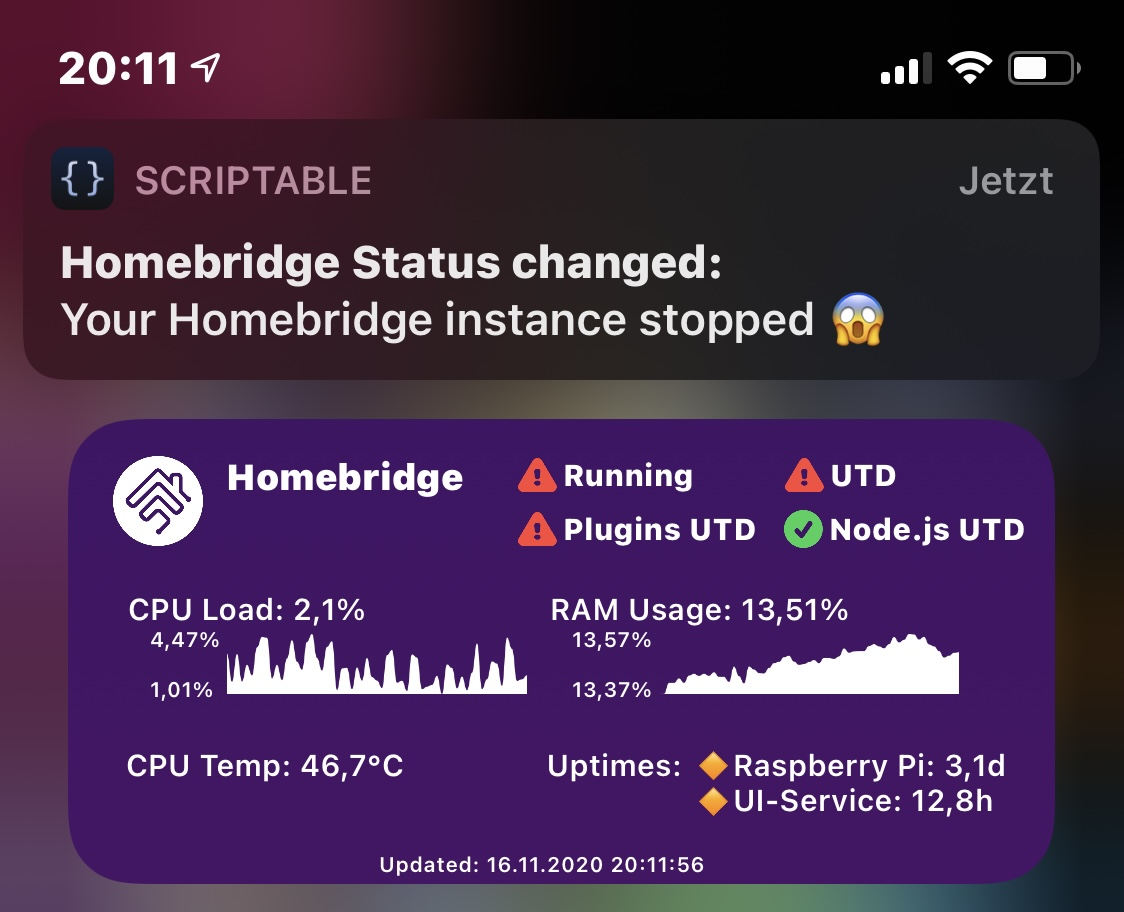
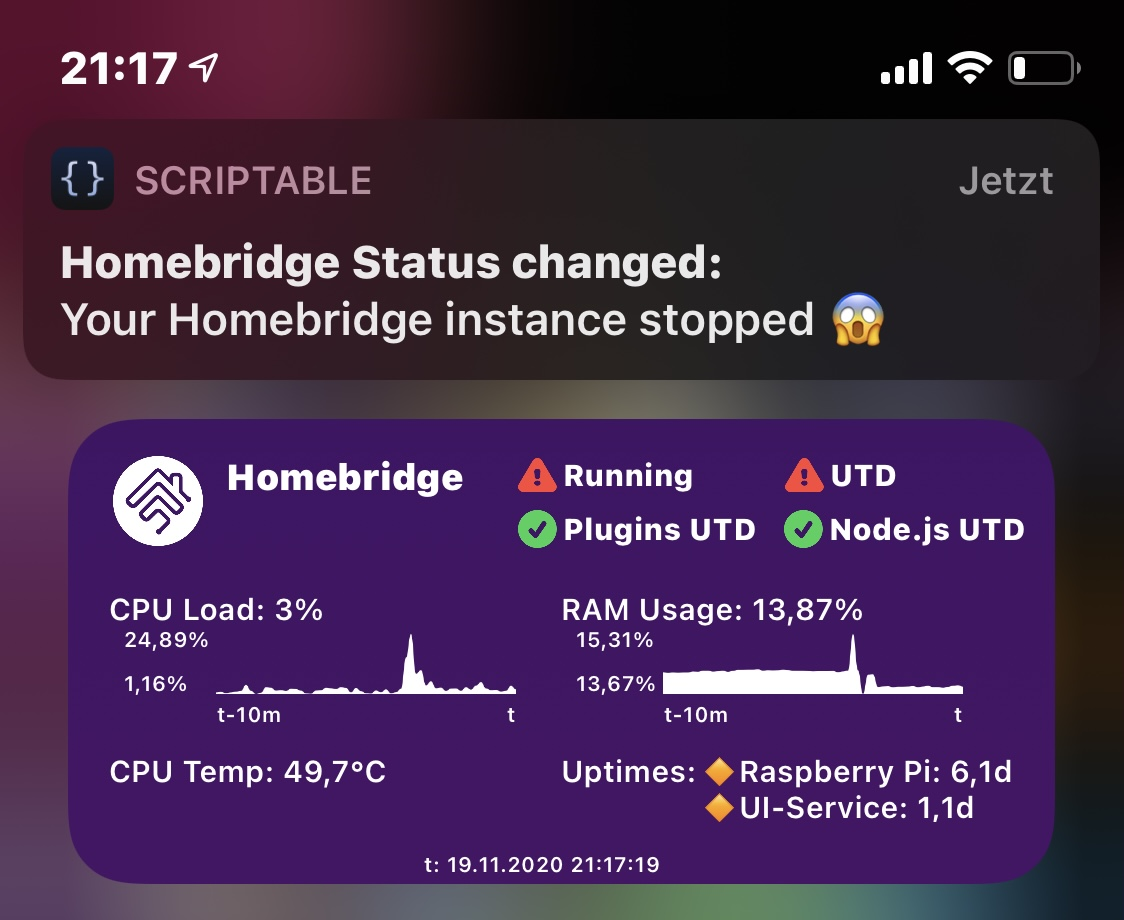
- tried my best to make this as stylable as possible - support for dark and light versions of purple and black - everything that is in the configuration class is saved and will be the same even after the script will be updated - you can now set chart color, font color, set own background colors

diff --git a/homebridgeStatusWidget.js b/homebridgeStatusWidget.js
@@ -24,12 +24,21 @@ class Configuration {
     temperatureUnitConfig = 'CELSIUS'; // options are CELSIUS or FAHRENHEIT
     requestTimeoutInterval = 2; // in seconds; If requests take longer, the script is stopped. Increase it if it doesn't work or you
     pluginsOrSwUpdatesToIgnore = []; // a string array; enter the exact npm-plugin-names e.g. 'homebridge-fritz' or additionally 'HOMEBRIDGE_UTD' or 'NODEJS_UTD' if you do not want to have them checked for their latest versions
-    bgColorMode = 'PURPLE'; // default is PURPLE. Other options: BLACK or BLUE_TO_RED
-
+    adaptToLightOrDarkMode = true; // if one of the purple or black options is chosen, the widget will adapt to dark/light mode if true
+    bgColorMode = 'PURPLE_LIGHT'; // default is PURPLE_LIGHT. Other options: PURPLE_DARK, BLACK_LIGHT, BLACK_DARK, CUSTOM (custom colors will be used, see below)
+    customBackgroundColor1 = '#3e00fa'; // if bgColorMode CUSTOM is used a LinearGradient is created from customBackgroundColor1 and customBackgroundColor2
+    customBackgroundColor2 = '#7a04d4'; // you can use your own colors here; they are saved in the configuration
+    chartColor = '#FFFFFF';
+    fontColor = '#FFFFFF';
     failIcon = '❌';
     bulletPointIcon = '🔸';
     decimalChar = ','; // if you like a dot as decimal separator make the comma to a dot here
     jsonVersion = CONFIGURATION_JSON_VERSION; // do not change this
+    enableSiriFeedback = false; // this does nothing atm, but maybe i use this in the future
+    defaultLocaleToUseForSiri = 'de'; // this does nothing atm, but maybe i use this in the future
+
+// logo is downloaded only the first time! It is saved in iCloud and then loaded from there everytime afterwards
+    logoUrl = 'https://github.com/homebridge/branding/blob/master/logos/homebridge-silhouette-round-white.png?raw=true';
 }
 
 // CONFIGURATION END //////////////////////
@@ -43,8 +52,6 @@ const uptimeUrl = () => CONFIGURATION.hbServiceMachineBaseUrl + '/api/status/upt
 const pluginsUrl = () => CONFIGURATION.hbServiceMachineBaseUrl + '/api/plugins';
 const hbVersionUrl = () => CONFIGURATION.hbServiceMachineBaseUrl + '/api/status/homebridge-version';
 const nodeJsUrl = () => CONFIGURATION.hbServiceMachineBaseUrl + '/api/status/nodejs';
-// logo is downloaded only the first time! It is saved in iCloud and then loaded from there everytime afterwards
-const logoUrl = 'https://github.com/homebridge/branding/blob/master/logos/homebridge-silhouette-round-white.png?raw=true';
 
 
 const maxLineWidth = 310; // if layout doesn't look good for you,
@@ -55,20 +62,12 @@ const headerFont = Font.boldMonospacedSystemFont(12);
 const infoFont = Font.systemFont(10);
 const chartAxisFont = Font.systemFont(7);
 const updatedAtFont = Font.systemFont(7);
-const fontColorWhite = new Color('FFFFFF');
-const bgColorPurple = new Color('#421367');
-const bgColorBrighterPurple = new Color('#481367');
-const purpleBgGradient = new LinearGradient();
-purpleBgGradient.locations = [0, 1];
-purpleBgGradient.colors = [bgColorPurple, bgColorBrighterPurple];
-const blackBgGradient = new LinearGradient();
-blackBgGradient.locations = [0, 1];
-blackBgGradient.colors = [new Color('111111'), new Color('222222')];
-const blueToRedBgGradient = new LinearGradient();
-blueToRedBgGradient.locations = [0, 1];
-blueToRedBgGradient.colors = [new Color('3e00fa'), new Color('7a04d4')];
 
-const chartColor = new Color('#FFFFFF');
+const purpleBgGradient_light = createLinearGradient('#421367', '#481367');
+const purpleBgGradient_dark = createLinearGradient('#250b3b', '#320d47');
+const blackBgGradient_light = createLinearGradient('#707070', '#3d3d3d');
+const blackBgGradient_dark = createLinearGradient('#111111', '#222222');
+
 const UNAVAILABLE = 'UNAVAILABLE';
 
 const NOTIFICATION_JSON_VERSION = 1; // never change this!
@@ -77,22 +76,10 @@ const HB_LOGO_FILE_NAME = 'hbLogo.png'; // never change this!
 
 const INITIAL_NOTIFICATION_STATE = {
     'jsonVersion': NOTIFICATION_JSON_VERSION,
-    'hbRunning': {
-        'status': true,
-        'lastNotified': undefined
-    },
-    'hbUtd': {
-        'status': true,
-        'lastNotified': undefined
-    },
-    'pluginsUtd': {
-        'status': true,
-        'lastNotified': undefined
-    },
-    'nodeUtd': {
-        'status': true,
-        'lastNotified': undefined
-    }
+    'hbRunning': {'status': true},
+    'hbUtd': {'status': true},
+    'pluginsUtd': {'status': true},
+    'nodeUtd': {'status': true}
 };
 
 class LineChart {
@@ -157,6 +144,7 @@ if (!config.runsInWidget) {
 
 Script.setWidget(widget);
 Script.complete();
+
 // WIDGET INIT END //////////////////
 
 
@@ -174,7 +162,7 @@ async function createWidget() {
 //      a valid real example: admin,,mypassword123,,http://192.168.178.33:8581
 //      If no password is needed for you to login just enter anything: xyz,,xyz,,http://192.168.178.33:8581
         if (args.widgetParameter.length > 0) {
-            let foundCredentialsInParameter = checkifCredentialsParameterAreProvided(args.widgetParameter);
+            let foundCredentialsInParameter = useCredentialsFromWidgetParameter(args.widgetParameter);
             let fileNameSuccessfullySet = false;
             if (!foundCredentialsInParameter) {
                 fileNameSuccessfullySet = checkIfConfigFileParameterIsProvided(fm, args.widgetParameter);
@@ -196,13 +184,8 @@ async function createWidget() {
         throw('Credentials not valid');
     }
     let widget = new ListWidget();
-    if (CONFIGURATION.bgColorMode === 'BLACK') {
-        widget.backgroundGradient = blackBgGradient;
-    } else if (CONFIGURATION.bgColorMode === 'BLUE_TO_RED') {
-        widget.backgroundGradient = blueToRedBgGradient;
-    } else {
-        widget.backgroundGradient = purpleBgGradient;
-    }
+
+    handleSettingOfBackgroundColor(widget);
 
     if (token !== UNAVAILABLE) {
         widget.addSpacer(10);
@@ -241,7 +224,6 @@ async function createWidget() {
         persistObject(fm, CONFIGURATION, pathToConfig);
     }
 
-
     // STATUS PANEL IN THE HEADER ///////////////////
     let statusInfo = titleStack.addStack();
     statusInfo.layoutVertically();
@@ -277,7 +259,7 @@ async function createWidget() {
         if (temperatureString !== 'unknown') {
             let cpuTempText = addStyledText(firstColumn, 'CPU Temp: ' + temperatureString, infoFont);
             cpuTempText.size = new Size(150, 30);
-            cpuTempText.textColor = fontColorWhite;
+            cpuTempText.textColor = new Color(CONFIGURATION.fontColor);
         }
         // FIRST COLUMN END //////////////////////
 
@@ -317,17 +299,68 @@ async function createWidget() {
     }
 }
 
+function handleSettingOfBackgroundColor(widget) {
+    if (!CONFIGURATION.adaptToLightOrDarkMode) {
+        switch (CONFIGURATION.bgColorMode) {
+            case "CUSTOM":
+                widget.backgroundGradient = createLinearGradient(CONFIGURATION.customBackgroundColor1, CONFIGURATION.customBackgroundColor2);
+                break;
+            case "BLACK_LIGHT":
+                widget.backgroundGradient = blackBgGradient_light;
+                break;
+            case "BLACK_DARK":
+                widget.backgroundGradient = blackBgGradient_dark;
+                break;
+            case "PURPLE_DARK":
+                widget.backgroundGradient = purpleBgGradient_dark;
+                break;
+            case "PURPLE_LIGHT":
+            default:
+                widget.backgroundGradient = purpleBgGradient_light;
+        }
+    } else {
+        switch (CONFIGURATION.bgColorMode) {
+            case "CUSTOM":
+                widget.backgroundGradient = createLinearGradient(CONFIGURATION.customBackgroundColor1, CONFIGURATION.customBackgroundColor2);
+                break;
+            case "BLACK_LIGHT":
+            case "BLACK_DARK":
+                determinGradient(widget, blackBgGradient_light, blackBgGradient_dark);
+                break;
+            case "PURPLE_DARK":
+            case "PURPLE_LIGHT":
+            default:
+                determinGradient(widget, purpleBgGradient_light, purpleBgGradient_dark);
+        }
+    }
+}
+
+function determinGradient(widget, lightOption, darkOption) {
+    if (Device.isUsingDarkAppearance()) {
+        widget.backgroundGradient = darkOption;
+    } else {
+        widget.backgroundGradient = lightOption;
+    }
+}
+
+function createLinearGradient(color1, color2) {
+    const gradient = new LinearGradient();
+    gradient.locations = [0, 1];
+    gradient.colors = [new Color(color1), new Color(color2)];
+    return gradient;
+}
+
 function addStyledText(stackToAddTo, text, font) {
     let textHandle = stackToAddTo.addText(text);
     textHandle.font = font;
-    textHandle.textColor = fontColorWhite;
+    textHandle.textColor = new Color(CONFIGURATION.fontColor);
     return textHandle;
 }
 
 function addTitleAboveChartToWidget(column, titleText) {
     let cpuLoadTitle = column.addText(titleText);
     cpuLoadTitle.font = infoFont;
-    cpuLoadTitle.textColor = fontColorWhite;
+    cpuLoadTitle.textColor = new Color(CONFIGURATION.fontColor);
 }
 
 function addChartToWidget(column, chartData) {
@@ -345,7 +378,7 @@ function addChartToWidget(column, chartData) {
 
     let chartImage = new LineChart(500, 100, chartData).configure((ctx, path) => {
         ctx.opaque = false;
-        ctx.setFillColor(chartColor);
+        ctx.setFillColor(new Color(CONFIGURATION.chartColor));
         ctx.addPath(path);
         ctx.fillPath(path);
     }).getImage();
@@ -377,7 +410,7 @@ function checkIfConfigFileParameterIsProvided(fm, givenParameter) {
     return false;
 }
 
-function checkifCredentialsParameterAreProvided(givenParameter) {
+function useCredentialsFromWidgetParameter(givenParameter) {
     if (givenParameter.includes(',,')) {
         let credentials = givenParameter.split(',,');
         if (credentials.length === 3 && credentials[0].length > 0 && credentials[1].length > 0 &&
@@ -535,7 +568,7 @@ async function getHbLogo(fm) {
         return fm.readImage(path);
     } else {
         // logo did not exist -> download it and save it for next time the widget runs
-        const logo = await loadImage(logoUrl);
+        const logo = await loadImage(CONFIGURATION.logoUrl);
         fm.writeImage(path, logo);
         return logo;
     }
@@ -551,18 +584,18 @@ function getFilePath(fileName, fm) {
 
 function addNotAvailableInfos(widget, titleStack) {
     let statusInfo = titleStack.addText('                                                 ');
-    statusInfo.textColor = fontColorWhite;
+    statusInfo.textColor = new Color(CONFIGURATION.fontColor);
     statusInfo.size = new Size(150, normalLineHeight);
     let errorText = widget.addText('   ' + CONFIGURATION.failIcon + ' UI-Service not reachable!\n          👉🏻 Server started?\n          👉🏻 UI-Service process started?\n          👉🏻 Server-URL ' + CONFIGURATION.hbServiceMachineBaseUrl + ' correct?\n          👉🏻 Are you in the same network?');
     errorText.size = new Size(410, 130);
     errorText.font = infoFont;
-    errorText.textColor = fontColorWhite;
+    errorText.textColor = new Color(CONFIGURATION.fontColor);
 
 
     widget.addSpacer(15);
     let updatedAt = widget.addText('Updated: ' + timeFormatter.string(new Date()));
     updatedAt.font = updatedAtFont;
-    updatedAt.textColor = fontColorWhite;
+    updatedAt.textColor = new Color(CONFIGURATION.fontColor);
     updatedAt.centerAlignText();
 
     return widget;
@@ -626,7 +659,7 @@ function addStatusInfo(lineWidget, statusBool, shownText) {
     itemStack.addSpacer(2);
     let text = itemStack.addText(shownText);
     text.font = Font.semiboldMonospacedSystemFont(10);
-    text.textColor = fontColorWhite;
+    text.textColor = new Color(CONFIGURATION.fontColor);
 }
 
 function handleNotifications(fm, hbRunning, hbUtd, pluginsUtd, nodeUtd) {

diff --git a/README.md b/README.md
@@ -1,4 +1,4 @@
-![](images/widget_purple.jpg)
+![](images/widget_purple_light.jpg)
 
 # Homebridge Status Widget
 - Script for the iOS App Scriptable that shows a small summary of your Homebridge instance
@@ -8,17 +8,35 @@
 - This script was developed with Homebridge Config UI X in version 4.32.0 (2020-11-06), Homebridge at version 1.1.6 and Scriptable app in version 1.6.1 on iOS 14.2. Maybe you need to update the UI-service OR Homebridge OR the Scriptable app OR your iPhone if this script does not work for you
 - also thanks to github user kevinkub for providing a line chart example at https://gist.github.com/kevinkub/b74f9c16f050576ae760a7730c19b8e2
 
-# How to use
-- updatable way supporting the install script from https://scriptdu.de (very recommended):
+# How to use (3 setup possibilities)
+- the best way (updatable, supporting the install script from https://scriptdu.de (very recommended)):
+  - the script has a configuration mechanism that saves all configurations (in the Configuration class) to iCloud persistently
+  - this means the configuration you make can be reused once you install a newer version of this script
+  - following variables exist in the configuration: ![](images/config.png)
+  - three variables controll this mechanism:
+     - configurationFileName = 'purple.json' // change this to an own name e.g. 'configBlack.json' . This name can then be given as a widget parameter in the form 'USE_CONFIG:yourfilename.json' so you don't loose your preferred configuration across script updates (but you will loose it if i have to change the configuration format)
+     - usePersistedConfiguration = true; // false would mean to use the visible configuration below; true means the state saved in iCloud (or locally) will be used
+     - overwritePersistedConfig = false; // if you like your configuration, run the script ONCE with this param to true, then it is saved and can be used via 'USE_CONFIG:yourfilename.json' in widget params
+  - so basically what you need to do is:
+     - choose a configurationFileName (must end with '.json')
+     - set overwritePersistedConfig to true
+     - configure every configuration-variable exactly as you want
+     - run the script once (this creates a json file in icloud, you can always delete it to start from scratch)
+     - set overwritePersistedConfig to false
+     - set the widget up with a single parameter in the format 'USE_CONFIG:yourfilename.json' ![](images/use_config_via_parameter.jpeg)
+  - as long as overwritePersistedConfig is false, any change to the config won't take any effect because the persisted one is used if usePersistedConfiguration is true
+- another updatable way:
    - set the widget up with parameter in the format \<username>,,\<password>,,\<hbServiceMachineBaseUrl>
    - a valid real example: "admin,,mypassword123,,http://192.168.178.33:8581"
+   - if you have authentication set to non in UI-X then just provide any char. Valid would be e.g. "x,,x,,http://192.168.178.33:8581"
+   - maybe you need to set usePersistedConfiguration in the config to false to use this older way
    - screenshot of an example when setting it up: ![](images/example_parameter_setup.jpeg)
-   
-- hard coded way: you need to configure 
+
+- hard coded way in the script (not recommended): you need to configure 
    - the **URL** of the system running the Homebridge Config UI X (the hb-service), including the port e.g. http://192.168.178.33:8581
    - **username** of the administrator of the homebridge-config-ui-x instance (not the actual linux user)
    - **password** of the administrator of the homebridge-config-ui-x instance
-- the residual parameter can be tweaked a bit for your needs
+   - the residual parameter can be tweaked a bit for your needs
    - e.g. fileManagerMode, must be set to LOCAL if you do not use iCloud Drive. Default is ICLOUD
    - e.g. the systemGuiName, the name of your system running the Homebridge Config UI X (the hb-service)
    - e.g. the timeout could be increased if your system does not respond within 2 second
@@ -40,12 +58,11 @@
   - 0.5 means you get each possible notification to a maximum of 2 times per day
 - Open a notification to reveal the "Show me!" button which takes you directly to Homebridge Config UI X
 - Here are some screenshots: 
-![](images/notification_plugin_update.jpeg)
-![](images/notification_homebridge_update.jpeg)
 ![](images/notification_homebridge_stopped.jpg)
-![](images/notification_homebridge_stopped_extended.jpg)
+![](images/notification_homebridge_update.jpg)
+![](images/notification_homebridge_update_extended.jpg)
 
-# Ignoring specific plugins or software
+# Ignoring specific plugin or software updates
 - by filling the empty array of the variable pluginsOrSwUpdatesToIgnore with strings, you can now configure to ignore plugins, Homebridge or Node.js during checking for updates
 - succesfully ignored software will not influence the shown status (e.g. ignoring homebridge UTD status will result in showing the green status always even if there is an update available)
   - for ignoring plugins, enter their npm name (e.g. 'homebridge-fritz') as string in the given empty array 
@@ -55,10 +72,18 @@
 
 
 # Styling
-- at the top of the script there is a variable bgColorMode that you can set to 'BLACK' or 'BLUE_TO_RED' to use other variants which look as the following:
-![](images/widget_black.jpg)
-![](images/notAvailable_black.jpg)
-![](images/widget_blue_to_red.jpg)
+- at the top of the script there is a variable bgColorMode that you can set to 'PURPLE_LIGHT', 'PURPLE_DARK', 'BLACK_LIGHT', BLACK_DARK', or 'CUSTOM'
+![](images/widget_purple_light.jpg)
+![](images/widget_purple_dark.jpg)
+![](images/widget_black_light.jpg)
+![](images/widget_black_dark.jpg)
+- in CUSTOM mode the values defined in customBackgroundColor1 and customBackgroundColor2 are used (you can choose!) 
+![](images/widget_custom_blue.jpg)
+![](images/widget_custom_blue_green_charts.jpg)
+- adaptToLightOrDarkMode toggles to react to light/dark mode automatically (only supports the purple and black modes)
+- fontColor sets all texts to your chosen color
+- chartColor controls which color the carts have
+- you even can experiment with logoUrl and choose another logo to download from anywhere
 - you can also change the icons failIcon = ❌ and bulletPointIcon = 🔸 by providing any other emoji
 
 # Infos shown in the widget
@@ -82,3 +107,4 @@
   - Homebridge 1.1.6
   - iOS 14.2
 - if your Homebridge Config UI X is reachable and the authentication process succeeded but the further API requests take to long or fail you will get a screen similar to ![](images/unknown.jpg)
+- open a github issue if you can't figure it out what the problem is

diff --git a/CHANGELOG.md b/CHANGELOG.md
@@ -1,5 +1,17 @@
 I try to list the changes i make in this changelog:
 
+#19.11.2020 22:26
+- hope you can figure out how to use the configuration :) :
+- added support for persisting and loading configurations -> now you can configure everything once as you like, create a configuration.json file, save it in e.g. iCloud and from there you can easily use this file via a widget parameter and don't have to think about reconfiguring everything after updating the script itself
+- the new parameter must have the form USE_CONFIG:yourfilename.json (so it starts with USE_CONFIG: and ends with .json. The middle part can be chosen by you)
+- tried my best to make this as stylable as possible
+- support for dark and light versions of purple and black (can be set automatically)
+- you can now set chart color, font color, set own background colors and more
+- added x axis label for charts
+- did a pretty large code refactoring without function changes
+- added support for Homebridge Config UI X Authentication Mode 'none' -> so if you chose 'none' and don't need credentials to show your UI in the browser, you now don't need it for this widget anymore
+- new screenshots
+
 #17.11.2020 22:08
 - complete overhaul of the section above the updated date and below the title for perfect alignment (now only using stacks and spacers)
 - only updated one picture (the main pic on top of readme)
